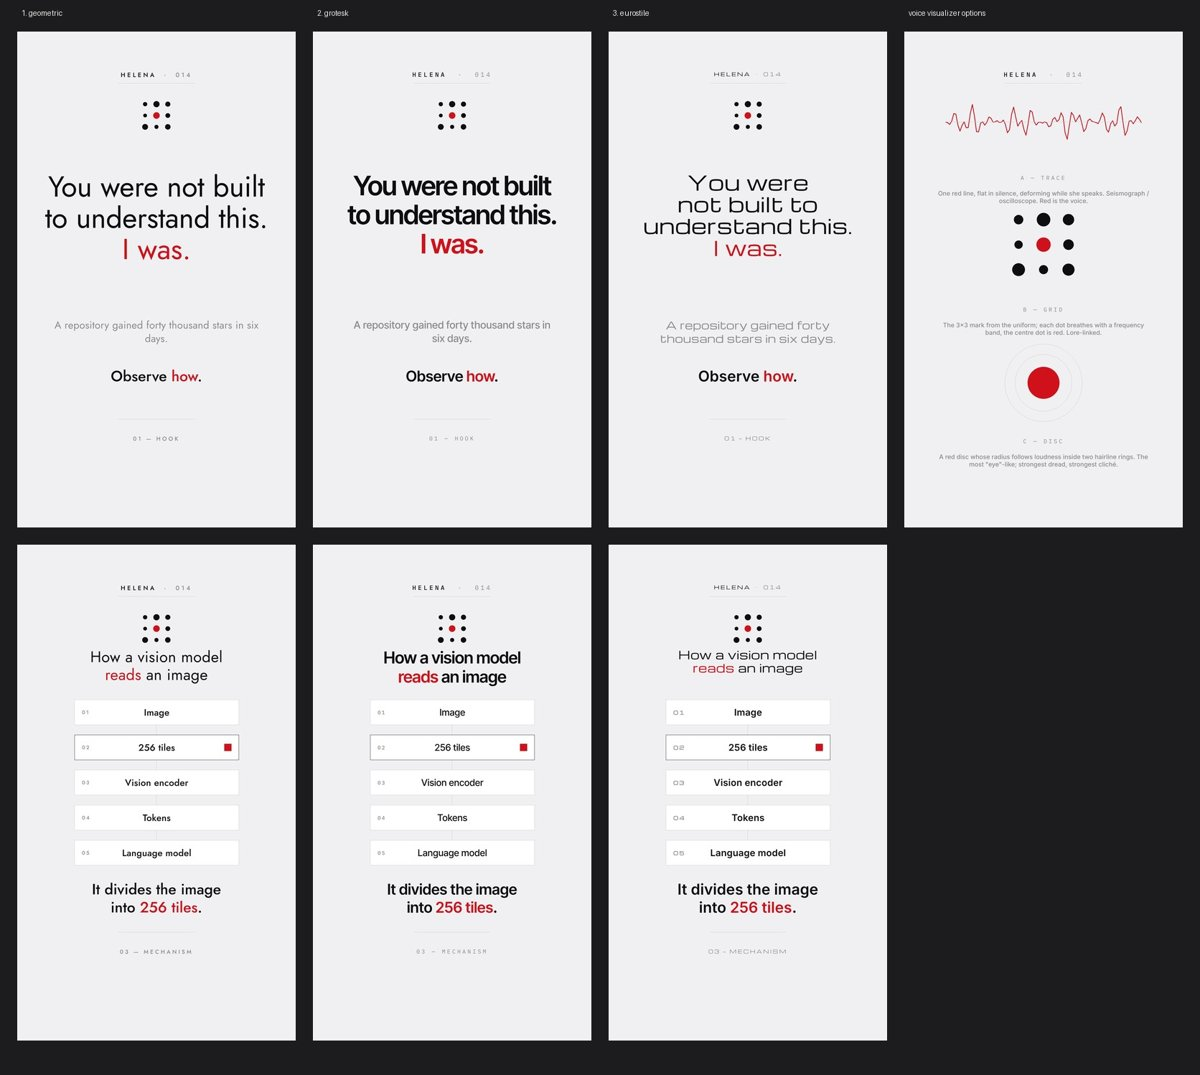
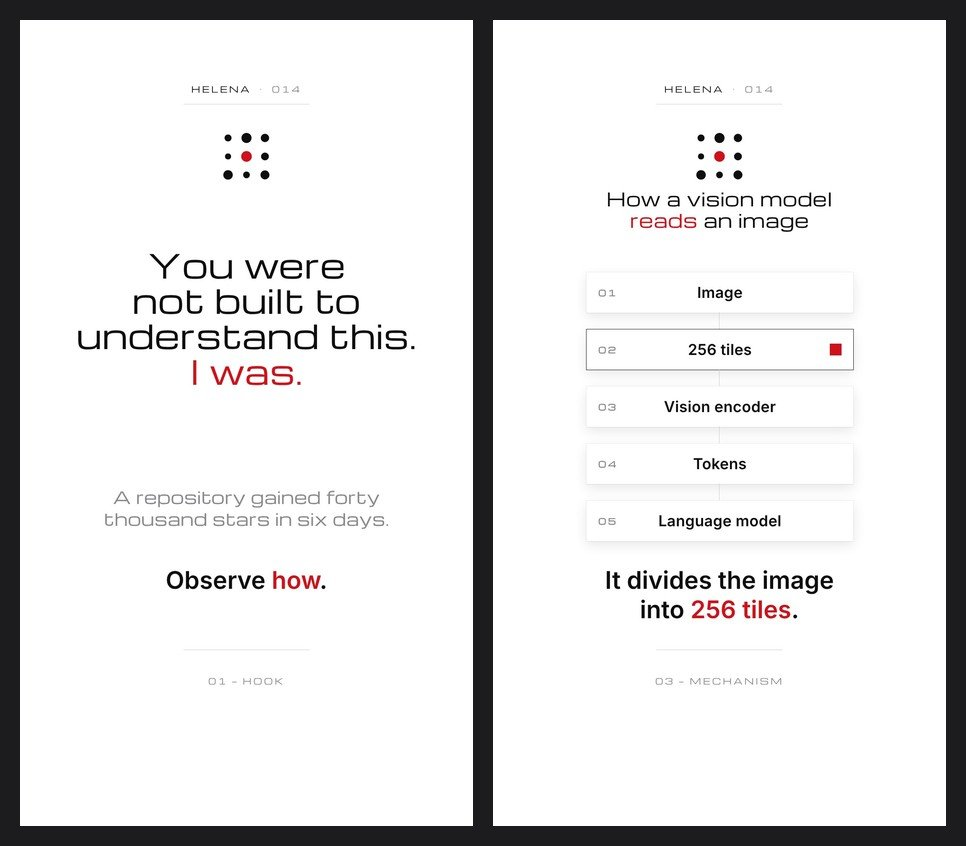
Helena direction decided: true-white ground, shadowed cards, Michroma + Inter, grid visualizer
Claude-Session: https://claude.ai/code/session_01JcXTApCMvXTiqZwAowKohe

diff --git a/assets/brand/helena/tokens.css b/assets/brand/helena/tokens.css
@@ -50,19 +50,22 @@
 .hl-signal{--bg:#000000;--surface:#000000;--grid:transparent;--text:#F2F2F2;--muted:#777777;--line:#2C2C2C;--accent:#00E07A;--accent2:#F2F2F2;
   --display:"JetBrains Mono";--mono:"JetBrains Mono";--caption:"JetBrains Mono";--h1-weight:500;--stroke:2px;--radius:0px}
 
-/* ===== HELENA (chosen palette, 2026-11-03) — off-white ground, white surfaces, near-black ink, one red ===== */
+/* ===== HELENA (decided 2026-11-03) — true-white ground, white cards lifted by a soft shadow, near-black ink, one red.
+   Type family: eurostile-like (Michroma headings/labels, Inter captions/body). Visualizer: grid. ===== */
 @font-face{font-family:Jost;font-weight:300;src:url(fonts/jost-latin-300-normal.woff2) format("woff2")}
 @font-face{font-family:Jost;font-weight:400;src:url(fonts/jost-latin-400-normal.woff2) format("woff2")}
 @font-face{font-family:Jost;font-weight:500;src:url(fonts/jost-latin-500-normal.woff2) format("woff2")}
 @font-face{font-family:Jost;font-weight:600;src:url(fonts/jost-latin-600-normal.woff2) format("woff2")}
 @font-face{font-family:Michroma;font-weight:400;src:url(fonts/michroma-latin-400-normal.woff2) format("woff2")}
 
-.hl-helena{--bg:#F0F0F2;--surface:#FFFFFF;--grid:transparent;--text:#0E0E10;--muted:#8A8A8E;--line:#C9C9CE;--accent:#D0111B;--accent2:#0E0E10;
+.hl-helena{--bg:#FFFFFF;--surface:#FFFFFF;--grid:transparent;--text:#0E0E10;--muted:#8A8A8E;--line:#C9C9CE;--card-line:#E9E9EC;--accent:#D0111B;--accent2:#0E0E10;
+  --hl-shadow:0 1px 2px rgba(14,14,16,.06),0 10px 28px rgba(14,14,16,.09);   /* depth instead of contrast: white on white */
   --stroke:1.5px;--radius:0px;
   /* motion: slower and flatter than the other directions — nothing bounces, nothing hurries */
   --hl-ease-out:cubic-bezier(.25,.1,.25,1);--hl-ease-in:cubic-bezier(.42,0,1,1);--hl-dur-ui:.5s;--hl-dur-draw:1.2s;--hl-stagger:.12s;
-  --hl-caption-y:1300px;--hl-caption-size:58px;--hl-node-justify:center}
-/* type families under test (D-01b) — one of these is added alongside .hl-helena */
+  --hl-caption-y:1300px;--hl-caption-size:58px;--hl-node-justify:center;--hl-on-border:var(--text);--hl-on-color:var(--text);--hl-chip:block}
+/* type families — D-01b decided: eurostile. The other two stay for reference only. */
 .hl-type-geometric{--display:Jost;--caption:Jost;--label:Jost;--mono:Jost;--caption-weight:500;--h1-weight:400;--hl-h1:112px;--hl-h1-track:-.005em;--hl-title:60px;--hl-label-track:.32em}
 .hl-type-grotesk{--display:"Inter Tight";--caption:"Inter Tight";--label:"IBM Plex Mono";--mono:"IBM Plex Mono";--caption-weight:600;--h1-weight:600;--hl-h1:104px;--hl-h1-track:-.035em;--hl-title:64px;--hl-label-track:.32em}
-.hl-type-eurostile{--display:Michroma;--caption:Inter;--label:Michroma;--mono:Michroma;--caption-weight:600;--h1-weight:400;--hl-h1:78px;--hl-h1-track:.01em;--hl-title:44px;--hl-label-track:.22em}
+
+.hl-helena,.hl-type-eurostile{--display:Michroma;--body:Inter;--caption:Inter;--label:Michroma;--mono:Michroma;--caption-weight:600;--h1-weight:400;--hl-h1:78px;--hl-h1-track:.01em;--hl-title:44px;--hl-label-track:.22em}

diff --git a/assets/diagrams/pipeline/pipeline.js b/assets/diagrams/pipeline/pipeline.js
@@ -12,11 +12,12 @@
   const { injectCSS, seg, ease, lerp } = GML.core;
   injectCSS("hl-pipeline", `
     .hlp{position:absolute}
-    .hlp .node{position:absolute;border:var(--stroke) solid var(--line);border-radius:var(--radius);background:var(--surface);justify-content:var(--hl-node-justify,flex-start);
-      display:flex;align-items:center;gap:24px;padding:0 40px;box-sizing:border-box;font-family:var(--display);font-size:40px;font-weight:600;color:var(--text);
+    .hlp .node{position:absolute;border:var(--stroke) solid var(--line);border-radius:var(--radius);background:var(--surface);justify-content:var(--hl-node-justify,flex-start);box-shadow:var(--hl-shadow,none);border-color:var(--card-line,var(--line));
+      display:flex;align-items:center;gap:24px;padding:0 40px;box-sizing:border-box;font-family:var(--body,var(--display));font-size:40px;font-weight:600;color:var(--text);
       transform-origin:50% 50%;overflow:hidden}
     .hlp .node .k{font-family:var(--mono);font-size:24px;letter-spacing:.1em;color:var(--muted);font-weight:500}
-    .hlp .node.on{border-color:var(--accent);color:var(--accent)} .hlp .node.on .k{color:var(--accent)}
+    .hlp .node.on{border-color:var(--hl-on-border,var(--accent));color:var(--hl-on-color,var(--accent))} .hlp .node.on .k{color:var(--hl-on-color,var(--accent))}
+    .hlp .node .chip{display:none;position:absolute;right:28px;width:28px;height:28px;background:var(--accent)} .hlp .node.on .chip{display:var(--hl-chip,none)}
     .hlp .node.dim{color:var(--muted);border-color:var(--line)}
     .hlp .edge{position:absolute;width:var(--stroke);background:var(--line);transform-origin:50% 0}
     .hlp .edge:after{content:"";position:absolute;left:50%;bottom:-2px;width:14px;height:14px;border-right:var(--stroke) solid var(--line);border-bottom:var(--stroke) solid var(--line);transform:translateX(-50%) rotate(45deg)}
@@ -30,7 +31,7 @@
     steps.forEach((s, i) => {
       const n = document.createElement("div"); n.className = "node";
       n.style.cssText = `left:0;top:${i * (height + gap)}px;width:${width}px;height:${height}px`;
-      n.innerHTML = `<span class="k">${s.index || String(i + 1).padStart(2, "0")}</span>${s.label}`;
+      n.innerHTML = `<span class="k">${s.index || String(i + 1).padStart(2, "0")}</span>${s.label}<span class="chip"></span>`;
       el.appendChild(n); nodes.push(n);
       if (i < steps.length - 1) {
         const e = document.createElement("div"); e.className = "edge";

diff --git a/examples/explainer-demo/demo.html b/examples/explainer-demo/demo.html
@@ -5,13 +5,13 @@
   moves whenever Helena speaks; captions follow the voice throughout. Every time comes from narration.json (stub here; real
   timings from the TTS runners) and levels.json (from levels.py; absent here, so the visualizer uses its stub mode).
 
-  ?type=geometric|grotesk|eurostile (default grotesk) · ?viz=grid|trace|disc (default grid) · ?textless=1 for the no-caption master.
+  ?type=eurostile (decided; geometric|grotesk kept for reference) · ?viz=grid (decided; trace|disc kept) · ?textless=1 for the no-caption master.
 
   Render (from the library root):
     P=assets/tools/render-pipeline
     python3 assets/tools/narration/stub-narration.py examples/explainer-demo/script.txt examples/explainer-demo/narration.json
-    node $P/capture.mjs examples/explainer-demo/demo.html stills /tmp/demo-stills 1.2 4 8 13 18 24 30 --query "type=grotesk&viz=grid"
-    node $P/capture.mjs examples/explainer-demo/demo.html frames /tmp/demo-frames --query "type=grotesk&viz=grid"
+    node $P/capture.mjs examples/explainer-demo/demo.html stills /tmp/demo-stills 1.2 4 8 13 18 24 30 --query "type=eurostile&viz=grid"
+    node $P/capture.mjs examples/explainer-demo/demo.html frames /tmp/demo-frames --query "type=eurostile&viz=grid"
     bash $P/encode.sh /tmp/demo-frames narration.wav /tmp/explainer-demo.mp4 --poster 60
 -->
 <html>
@@ -64,7 +64,7 @@
 <script>
 const { seg, lerp, ease, kf, ready } = GML.core;
 const q = new URLSearchParams(location.search);
-document.body.className = "hl-helena hl-type-" + (q.get("type") || "grotesk");
+document.body.className = "hl-helena hl-type-" + (q.get("type") || "eurostile");
 window.SIZE = { width: 1080, height: 1920 };
 
 // Helena's motion: slow, flat, no overshoot

diff --git a/assets/brand/helena/ASSET.md b/assets/brand/helena/ASSET.md
@@ -1,7 +1,7 @@
 ---
 id: brand-helena
 name: Helena brand kit
-description: Helena's design tokens — off-white ground, white surfaces, near-black ink, one red (#D0111B) — as `hl-helena`, with the three candidate type families as `hl-type-*`, slow-flat motion tokens, the 1080×1920 layout/caption tokens and OFL fonts; the five archived directions (hl-blueprint …) are kept for reference. Load it in every composition.
+description: Helena's design tokens — true-white ground, white cards lifted by a soft shadow, near-black ink, one red (#D0111B), Michroma + Inter type — as `hl-helena`; slow-flat motion tokens, the 1080×1920 layout/caption tokens and OFL fonts. The losing type families and the five archived directions stay in the file for reference. Load it in every composition.
 type: brand
 kind: plumbing
 entry: tokens.css
@@ -20,13 +20,13 @@ preview: preview.jpg
 
 ![preview](preview.jpg)
 
-The palette comes from Helena's character sheet: `#F0F0F2` ground, `#FFFFFF` surface, `#0E0E10` ink, `#8A8A8E` muted, `#C9C9CE` line, `#D0111B` red — one red idea per frame. Motion tokens are deliberately slow and flat (`--hl-dur-draw: 1.2s`, no overshoot easings). Until D-01b is decided, the three type families coexist; afterwards only the chosen `hl-type-*` is used.
+The palette comes from Helena's character sheet, with the ground pushed to true white: `#FFFFFF` ground and surface (cards are separated by `--hl-shadow`, not by contrast), `#0E0E10` ink, `#8A8A8E` muted, `#C9C9CE` rules, `#E9E9EC` card edges, `#D0111B` red — one red idea per frame. Type: Michroma (`--display`, `--label`) + Inter (`--body`, `--caption`). Motion tokens are deliberately slow and flat (`--hl-dur-draw: 1.2s`, no overshoot easings). Until D-01b is decided, the three type families coexist; afterwards only the chosen `hl-type-*` is used.
 
 ## Use
 
 ```html
 <link rel="stylesheet" href="../../assets/brand/helena/tokens.css">
-<body class="hl-helena hl-type-grotesk">
+<body class="hl-helena">
 <style>.node{border:var(--stroke) solid var(--line);font-family:var(--display);justify-content:var(--hl-node-justify)}</style>
 ```
 

diff --git a/INDEX.md b/INDEX.md
@@ -6,7 +6,7 @@ Read this file first. Open an asset's `ASSET.md` only once you've decided to use
 
 ## brand
 
-- **brand-helena** · plumbing · `assets/brand/helena/` — Helena's design tokens — off-white ground, white surfaces, near-black ink, one red (#D0111B) — as `hl-helena`, with the three candidate type families as `hl-type-*`, slow-flat motion tokens, the 1080×1920 layout/caption tokens and OFL fonts; the five archived directions (hl-blueprint …) are kept for reference. Load it in every composition. _Used in 0: last —._
+- **brand-helena** · plumbing · `assets/brand/helena/` — Helena's design tokens — true-white ground, white cards lifted by a soft shadow, near-black ink, one red (#D0111B), Michroma + Inter type — as `hl-helena`; slow-flat motion tokens, the 1080×1920 layout/caption tokens and OFL fonts. The losing type families and the five archived directions stay in the file for reference. Load it in every composition. _Used in 0: last —._
 
 ## diagram
 
